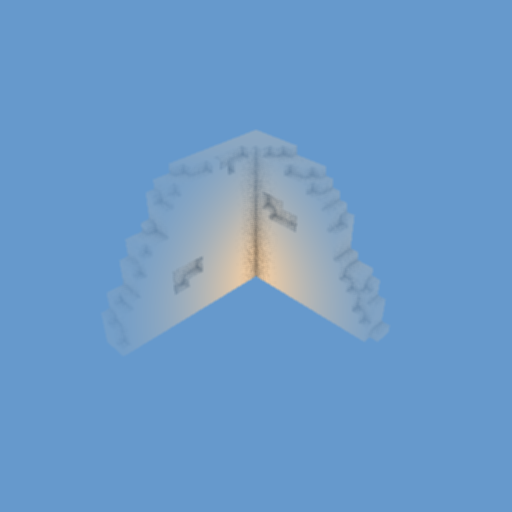
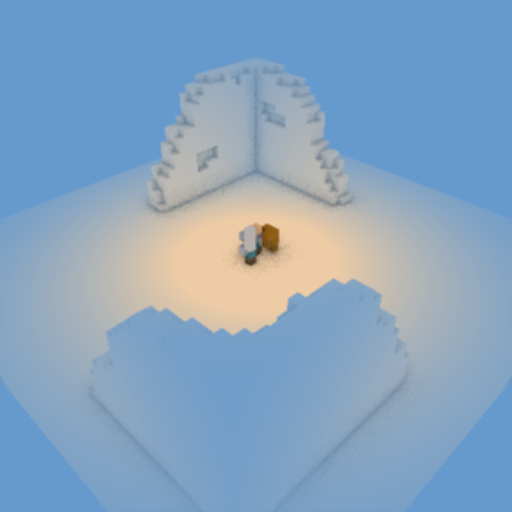
[TEST] Scene environment fog with voxel scene

diff --git a/testing/scene_tests.cpp b/testing/scene_tests.cpp
@@ -232,10 +232,11 @@ namespace test {
         void init(const API &api) override {
             _scene = api.scene;
             _scene->setCameraLookAt({40.0f, 40.0f, 40.0f}, {0.0f, 0.0f, 0.0f});
-            _scene->setEnvironment({0.5f, 1.0f, 0.3f}, {1.0f, 0.9f, 0.8f, 1.0f}, {0.0f, 0.0f, 0.0f}, {0.4f, 0.6f, 0.8f, 1.0f}, {5.0f, 30.0f});
-            api.resourceProvider->getOrLoadVoxelMesh("scene_tests/scene_voxel_mesh_test", [this](const std::vector<foundation::RenderDataPtr> &frames, const util::Description &desc) {
-                _mesh = _scene->addVoxelMesh(frames, desc);
-            });
+            _scene->setEnvironment({1.0f, 1.0f, 0.0f}, {1.0f, 0.9f, 0.8f, 1.0f}, {0.0f, 0.0f, 0.0f}, {0.4f, 0.6f, 0.8f, 1.0f}, {10.0f, 50.0f});
+            _addMesh(api, "scene_tests/scene_environment_fog_test_voxplane", {-32.0f, -1.0f, -32.0f});
+            _addMesh(api, "scene_tests/scene_voxel_mesh_test", {-20.0f, 0.0f, -20.0f});
+            _addMesh(api, "scene_tests/scene_environment_fog_test_debris", {5.0f, 0.0f, 5.0f});
+            _addMesh(api, "scene_tests/scene_environment_fog_test_knight", {0.0f, 0.0f, 0.0f});
         }
         void updateAndDraw(const API &api) override {}
         std::pair<std::uint8_t, std::uint16_t> getThresholdAndMaxDiff() const override {
@@ -243,8 +244,14 @@ namespace test {
         }
 
     private:
+        void _addMesh(const API &api, const char *path, const math::vector3f &position) {
+            api.resourceProvider->getOrLoadVoxelMesh(path, [this, position](const std::vector<foundation::RenderDataPtr> &frames, const util::Description &desc) {
+                _meshes.emplace_back(_scene->addVoxelMesh(frames, desc))->setPosition(position);
+            });
+        }
+
         core::SceneInterfacePtr _scene;
-        core::SceneInterface::VoxelMeshPtr _mesh;
+        std::vector<core::SceneInterface::VoxelMeshPtr> _meshes;
     };
 }
 
